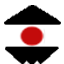
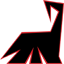
newer sprite for ground enemy

diff --git a/Gloorp/Gloorp/Game1.cs b/Gloorp/Gloorp/Game1.cs
@@ -48,8 +48,8 @@ namespace Gloorp
         Sprite finishLine = new Sprite();
         SpriteFont gameFont;
         string outPut;
-        string replayText = "Replay?:\n 'Y' or 'N'";
-        string victoryText = "VICTORY\n Replay?: 'Y' or 'N'";
+        string replayText = "Replay?:\n'Y' or 'N'";
+        string victoryText = "VICTORY\nReplay?:\n 'Y' or 'N'";
         string blank = "";
         
 
@@ -636,7 +636,7 @@ namespace Gloorp
                 //spriteBatch.Draw(victory.texture, victory.position, null, Color.White, 0.0f, new Vector2(0, 0), 0.35f, SpriteEffects.None, 0.0f);
                 outPut = victoryText;//change the text so it says Victory
             }
-            spriteBatch.DrawString(gameFont, outPut, new Vector2(400, 200), Color.Black);//draws the font to the screen. its the top layer
+            spriteBatch.DrawString(gameFont, outPut, new Vector2(400, 200), Color.White);//draws the font to the screen. its the top layer
             spriteBatch.End();
         }
         
